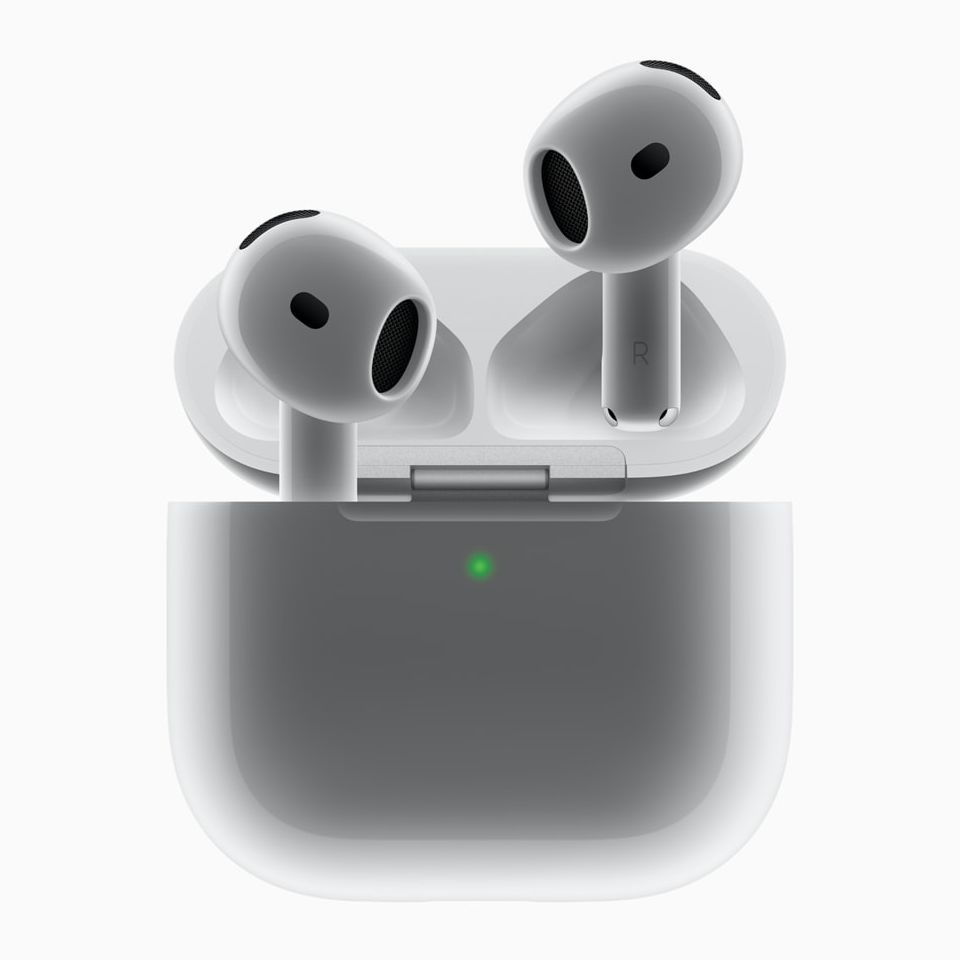
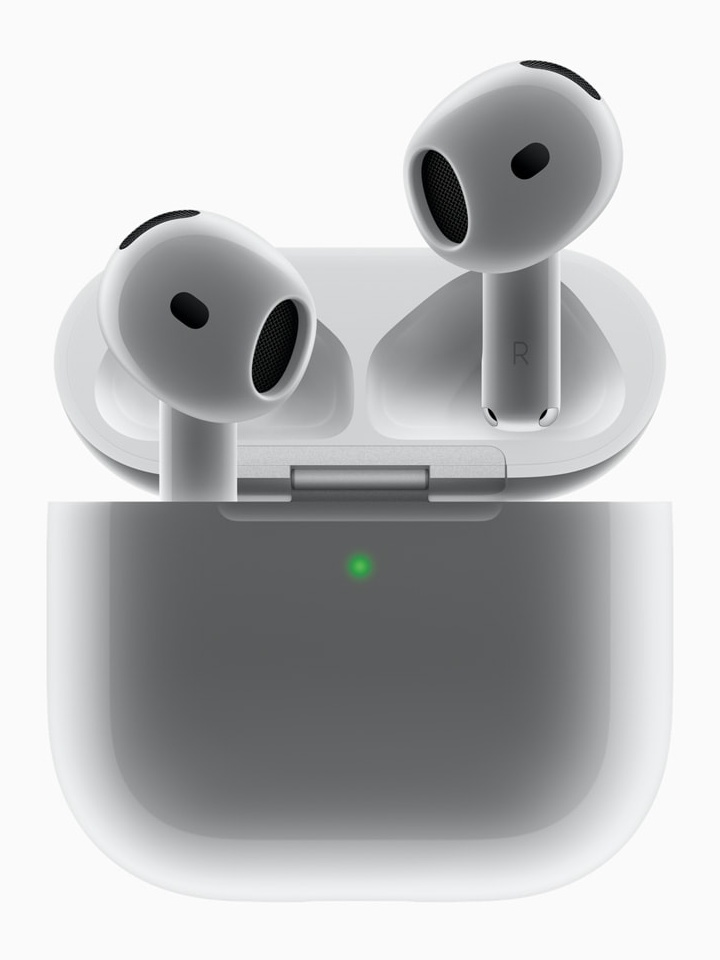
feat(homepage): stack AirPods 5 card with top-aligned text and large centered product image

diff --git a/src/styles/homepage-video-showcase.css b/src/styles/homepage-video-showcase.css
@@ -245,16 +245,15 @@
   color: #1d1d1f;
   background: #fafafa;
   display: flex !important;
-  flex-direction: row !important;
+  flex-direction: column !important;
   align-items: center !important;
-  justify-content: center !important;
-  gap: clamp(16px, 2.5vw, 36px) !important;
-  padding: clamp(40px, 4vw, 56px) clamp(28px, 3.2vw, 48px) !important;
+  justify-content: flex-start !important;
+  padding: clamp(38px, 4vw, 52px) clamp(20px, 3vw, 40px) 0 !important;
   min-height: clamp(580px, 46vw, 690px) !important;
   position: relative;
   overflow: hidden;
   box-sizing: border-box;
-  text-align: left;
+  text-align: center;
   scroll-margin-top: 64px;
 }
 
@@ -270,13 +269,13 @@
 }
 
 .ultra-airpods-lifestyle .ultra-airpods-copy {
-  flex: 0 0 clamp(260px, 40%, 310px);
-  max-width: 310px;
-  display: flex;
-  flex-direction: column;
-  align-items: flex-start;
-  text-align: left;
-  gap: 0;
+  width: 100% !important;
+  max-width: 460px !important;
+  display: flex !important;
+  flex-direction: column !important;
+  align-items: center !important;
+  text-align: center !important;
+  margin: 0 auto !important;
   position: relative;
   z-index: 3;
 }
@@ -302,13 +301,14 @@
 }
 
 .ultra-airpods-lifestyle .store-eyebrow {
-  margin: 0 0 10px;
+  margin: 0 0 8px;
   color: #86868b;
   font-size: 0.82rem;
   font-weight: 600;
   letter-spacing: 0.08em;
   text-transform: uppercase;
   line-height: 1.2;
+  text-align: center;
 }
 
 .ultra-airpods-copy h2 {
@@ -327,15 +327,16 @@
 
 .ultra-airpods-lifestyle .ultra-airpods-copy h2 {
   max-width: none;
-  justify-content: flex-start;
-  font-size: clamp(2.4rem, 3.2vw, 3.5rem);
+  justify-content: center;
+  font-size: clamp(2.4rem, 3.6vw, 3.8rem);
   font-weight: 700;
   letter-spacing: -0.025em;
   line-height: 1.05;
   color: #1d1d1f;
   min-height: 0;
   display: block;
-  margin: 0 0 12px;
+  margin: 0 0 8px;
+  text-align: center;
   white-space: normal;
 }
 
@@ -353,23 +354,24 @@
 }
 
 .ultra-airpods-lifestyle .ultra-airpods-copy > span {
-  justify-content: flex-start;
+  justify-content: center;
   color: #68686d;
   font-size: clamp(1.02rem, 1.25vw, 1.15rem);
   font-weight: 400;
   line-height: 1.4;
-  max-width: 26ch;
+  max-width: 32ch;
   min-height: 0;
   display: block;
-  margin: 0 0 24px;
+  margin: 0 auto 18px;
+  text-align: center;
 }
 
 .ultra-airpods-lifestyle .ultra-airpods-actions {
   display: flex;
   align-items: center;
   gap: 12px;
-  margin-top: 0;
-  justify-content: flex-start;
+  margin: 0 auto;
+  justify-content: center;
 }
 
 .ultra-airpods-lifestyle .ultra-airpods-actions a {
@@ -401,30 +403,39 @@
 
 .ultra-airpods-lifestyle-media {
   flex: 1 1 auto;
-  width: auto;
+  width: 100%;
   display: flex;
   justify-content: center;
-  align-items: center;
+  align-items: flex-end;
   position: relative;
   z-index: 2;
+  margin-top: clamp(14px, 2vh, 24px);
+  min-height: 0;
+}
+
+.ultra-airpods-lifestyle-media picture {
+  display: flex;
+  justify-content: center;
+  align-items: flex-end;
+  width: 100%;
   height: 100%;
-  min-width: 0;
 }
 
 .ultra-airpods-lifestyle-img {
   position: relative !important;
   inset: auto !important;
   display: block;
-  width: 100%;
-  max-width: clamp(340px, 34vw, 460px);
+  width: auto;
+  max-width: min(100%, 390px);
+  max-height: clamp(330px, 35vw, 420px);
   height: auto;
-  aspect-ratio: 1 / 1;
+  aspect-ratio: 3 / 4;
   object-fit: contain;
-  object-position: center;
+  object-position: center bottom;
   mix-blend-mode: normal;
   border-radius: 0;
   box-shadow: none;
-  transform: translateX(-16px);
+  transform: none;
   transition: transform 600ms cubic-bezier(0.16, 1, 0.3, 1);
   mask-image: none !important;
   -webkit-mask-image: none !important;
@@ -432,7 +443,7 @@
 }
 
 .ultra-airpods-lifestyle:hover .ultra-airpods-lifestyle-img {
-  transform: translateX(-16px) scale(1.03);
+  transform: scale(1.025);
 }
 
 .ultra-airpods-panel > img {
@@ -552,10 +563,10 @@
 
   .ultra-airpods-lifestyle-img {
     max-width: min(320px, 85vw) !important;
-    max-height: none !important;
-    aspect-ratio: 1 / 1 !important;
+    max-height: clamp(300px, 45vh, 400px) !important;
+    aspect-ratio: 3 / 4 !important;
     object-fit: contain !important;
-    object-position: center !important;
+    object-position: center bottom !important;
     border-radius: 0 !important;
     box-shadow: none !important;
     mix-blend-mode: normal !important;

diff --git a/src/styles/mobile-premium.css b/src/styles/mobile-premium.css
@@ -413,13 +413,13 @@
   .ultra-airpods-lifestyle-img {
     position: relative !important;
     inset: auto !important;
-    width: 100% !important;
-    max-width: min(300px, 85vw) !important;
+    width: auto !important;
+    max-width: min(320px, 85vw) !important;
     height: auto !important;
-    max-height: none !important;
-    aspect-ratio: 1 / 1 !important;
+    max-height: 400px !important;
+    aspect-ratio: 3 / 4 !important;
     object-fit: contain !important;
-    object-position: center !important;
+    object-position: center bottom !important;
     border-radius: 0 !important;
     box-shadow: none !important;
     mix-blend-mode: normal !important;

diff --git a/src/pages/HomePage.tsx b/src/pages/HomePage.tsx
@@ -265,8 +265,8 @@ function UltraAirpodsStory() {
               src="/products/homepage/airpods-5.jpg"
               alt="AirPods 5 with open charging case"
               className="ultra-airpods-lifestyle-img"
-              width={500}
-              height={500}
+              width={720}
+              height={960}
               loading="lazy"
               decoding="async"
             />
